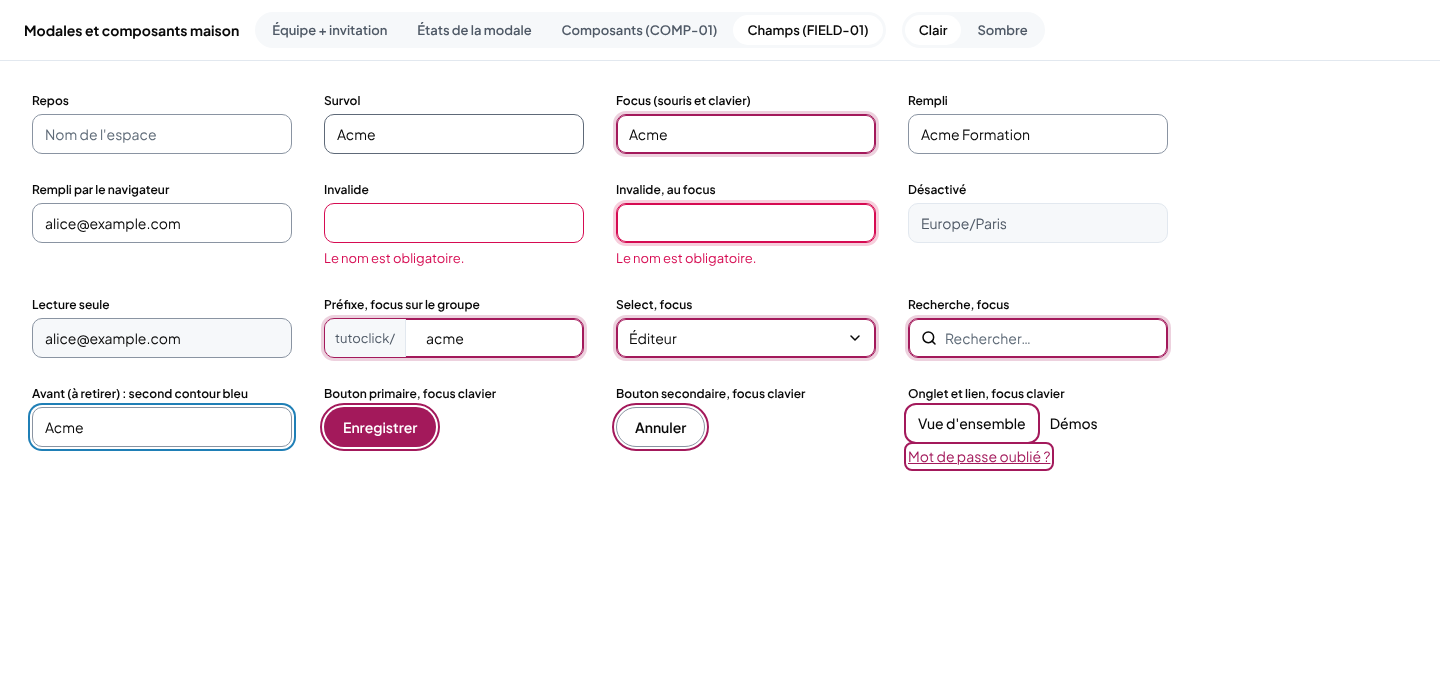
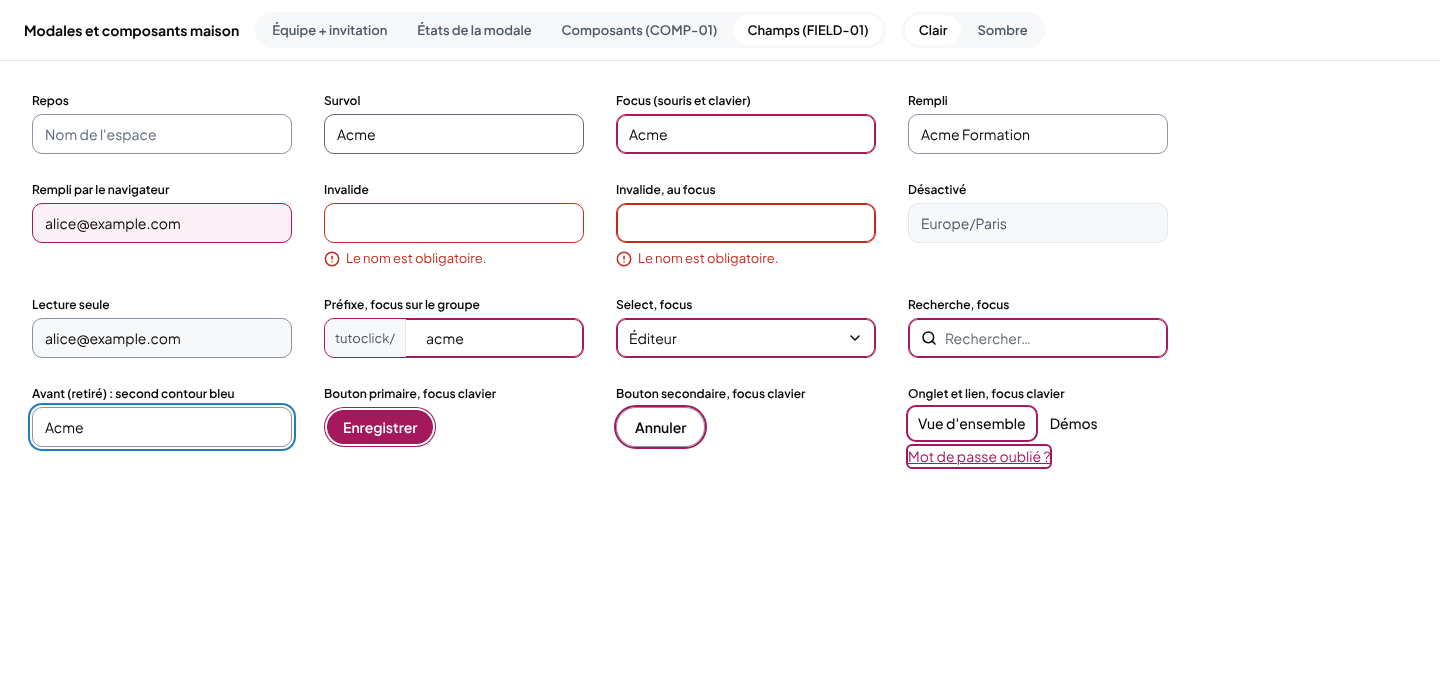
FIELD-01 révisé selon la décision du client : bordure prune de 2 px sans halo, autofill teinté prune-50, focus clavier collé (trait blanc intérieur sur le primaire), nouveau rouge d'erreur
Claude-Session: https://claude.ai/code/session_016yn81XNDaqi4emq7ho6CNv

diff --git a/docs/ux/maquettes/refonte/modales-composants.html b/docs/ux/maquettes/refonte/modales-composants.html
@@ -136,22 +136,25 @@ td.who { display: flex; align-items: center; gap: 12px; font-weight: 600; }
 .focus { outline: 2px solid var(--fd-color-focus); outline-offset: 2px; }
 
 /* ---------- FIELD-01 ---------- */
-:root { --field-hover: #5E6978; --halo: color-mix(in srgb, var(--fd-color-primary) 20%, transparent); --halo-d: color-mix(in srgb, var(--fd-color-danger) 20%, transparent); }
-[data-theme='dark'] { --field-hover: #7A8494; }
+:root { --tint: #FBF0F5; --err2: #C42B1C; --field-hover: #5E6978; --halo: color-mix(in srgb, var(--fd-color-primary) 20%, transparent); --halo-d: color-mix(in srgb, var(--fd-color-danger) 20%, transparent); }
+[data-theme='dark'] { --tint: #2A1A23; --err2: #F97066; --field-hover: #7A8494; }
 .f-grid { padding: 32px; display: grid; grid-template-columns: repeat(4, minmax(0, 260px)); gap: 28px 32px; }
 .f-grid .field > span.st { font: 600 12px var(--fd-font-sans); color: var(--fd-color-text); }
 .s-hover { border-color: var(--field-hover); }
-.s-focus { border-color: var(--fd-color-primary); box-shadow: inset 0 0 0 1px var(--fd-color-primary), 0 0 0 3px var(--halo); }
-.s-auto { background: var(--fd-color-surface); }
+.s-focus { border-color: var(--fd-color-primary); box-shadow: inset 0 0 0 1px var(--fd-color-primary); }
+.s-auto { background: var(--tint); border-color: var(--fd-color-primary); }
 .s-err { border-color: var(--fd-color-danger); }
-.s-err.s-focus { box-shadow: inset 0 0 0 1px var(--fd-color-danger), 0 0 0 3px var(--halo-d); }
+.s-err.s-focus { box-shadow: inset 0 0 0 1px var(--err2); }
+.s-err { border-color: var(--err2) !important; }
+[data-vue='champs'] .err-msg { color: var(--err2); }
 .s-dis { background: var(--fd-color-surface-sunken); border-color: var(--fd-color-border); color: var(--fd-color-text-muted); }
 .s-ro { background: var(--fd-color-surface-sunken); }
 .pre { padding: 0; overflow: hidden; } .pre span.p { padding: 0 10px; height: 100%; display: flex; align-items: center; background: var(--fd-color-surface-sunken); color: var(--fd-color-text-muted); font-size: 13px; border-right: 1px solid var(--fd-color-border); }
 .pre span.v { padding: 0 12px; }
 .old { box-shadow: 0 0 0 2px #fff, 0 0 0 4px #1f7fb6; }
 [data-theme='dark'] .old { box-shadow: 0 0 0 2px #0b0d10, 0 0 0 4px #51abdd; }
-.kf { outline: 2px solid var(--fd-color-primary); outline-offset: 2px; }
+.kf { outline: 2px solid var(--fd-color-primary); outline-offset: 0; }
+.btn-p.kf { outline: none; box-shadow: inset 0 0 0 2px var(--fd-color-surface); }
 .tabs { display: flex; gap: 4px; } .tab { padding: 6px 10px; border-radius: 8px; font-weight: 500; }
 </style>
 </head>
@@ -210,7 +213,7 @@ td.who { display: flex; align-items: center; gap: 12px; font-weight: 600; }
 <div data-vue="etats" style="display:grid;grid-template-columns:repeat(3,400px);gap:32px;padding:32px;align-items:start">
   <div class="modal">
     <div class="m-head"><span class="tile"><svg xmlns="http://www.w3.org/2000/svg" width="18" height="18" viewBox="0 0 24 24" fill="none" stroke="currentColor" stroke-width="2.25" stroke-linecap="round" stroke-linejoin="round" class="lucide lucide-folder-plus" aria-hidden="true"><path d="M12 10v6"></path><path d="M9 13h6"></path><path d="M20 20a2 2 0 0 0 2-2V8a2 2 0 0 0-2-2h-7.9a2 2 0 0 1-1.69-.9L9.6 3.9A2 2 0 0 0 7.93 3H4a2 2 0 0 0-2 2v13a2 2 0 0 0 2 2Z"></path></svg></span><h2>Nouveau dossier</h2><button class="icon-btn" aria-label="Fermer"><svg xmlns="http://www.w3.org/2000/svg" width="16" height="16" viewBox="0 0 24 24" fill="none" stroke="currentColor" stroke-width="2.25" stroke-linecap="round" stroke-linejoin="round" class="lucide lucide-x" aria-hidden="true"><path d="M18 6 6 18"></path><path d="m6 6 12 12"></path></svg></button></div>
-    <div class="m-body"><div class="field"><label for="n1">Nom du dossier</label><div class="inp err" id="n1"></div><div class="err-msg">Le nom est obligatoire.</div></div>
+    <div class="m-body"><div class="field"><label for="n1">Nom du dossier</label><div class="inp err" id="n1"></div><div class="err-msg"><svg xmlns="http://www.w3.org/2000/svg" width="16" height="16" viewBox="0 0 24 24" fill="none" stroke="currentColor" stroke-width="2.25" stroke-linecap="round" stroke-linejoin="round" class="lucide lucide-circle-alert" aria-hidden="true"><circle cx="12" cy="12" r="10"></circle><line x1="12" x2="12" y1="8" y2="12"></line><line x1="12" x2="12.01" y1="16" y2="16"></line></svg>Le nom est obligatoire.</div></div>
       <div class="field"><label>Visibilité</label><div class="inp trigger">Tout l'espace<svg xmlns="http://www.w3.org/2000/svg" width="16" height="16" viewBox="0 0 24 24" fill="none" stroke="currentColor" stroke-width="2.25" stroke-linecap="round" stroke-linejoin="round" class="lucide lucide-chevron-down" aria-hidden="true"><path d="m6 9 6 6 6-6"></path></svg></div></div></div>
     <div class="m-foot"><button class="btn btn-s">Annuler</button><button class="btn btn-p" aria-disabled="true">Créer le dossier</button></div>
   </div>
@@ -264,8 +267,8 @@ td.who { display: flex; align-items: center; gap: 12px; font-weight: 600; }
 
 <div data-vue="champs">
 <div class="f-grid">
-<div class="field"><span class="st">Repos</span><div class="inp "><span class="muted" style="color:var(--fd-color-text-subtle)">Nom de l'espace</span></div></div><div class="field"><span class="st">Survol</span><div class="inp s-hover">Acme</div></div><div class="field"><span class="st">Focus (souris et clavier)</span><div class="inp s-focus">Acme</div></div><div class="field"><span class="st">Rempli</span><div class="inp ">Acme Formation</div></div><div class="field"><span class="st">Rempli par le navigateur</span><div class="inp s-auto">alice@example.com</div></div><div class="field"><span class="st">Invalide</span><div class="inp s-err"></div><div class="err-msg">Le nom est obligatoire.</div></div><div class="field"><span class="st">Invalide, au focus</span><div class="inp s-err s-focus"></div><div class="err-msg">Le nom est obligatoire.</div></div><div class="field"><span class="st">Désactivé</span><div class="inp s-dis">Europe/Paris</div></div><div class="field"><span class="st">Lecture seule</span><div class="inp s-ro">alice@example.com</div></div><div class="field"><span class="st">Préfixe, focus sur le groupe</span><div class="inp pre s-focus"><span class="p">tutoclick/</span><span class="v">acme</span></div></div><div class="field"><span class="st">Select, focus</span><div class="inp trigger s-focus">Éditeur<svg xmlns="http://www.w3.org/2000/svg" width="16" height="16" viewBox="0 0 24 24" fill="none" stroke="currentColor" stroke-width="2.25" stroke-linecap="round" stroke-linejoin="round" class="lucide lucide-chevron-down" aria-hidden="true"><path d="m6 9 6 6 6-6"></path></svg></div></div><div class="field"><span class="st">Recherche, focus</span><div class="inp s-focus"><svg xmlns="http://www.w3.org/2000/svg" width="16" height="16" viewBox="0 0 24 24" fill="none" stroke="currentColor" stroke-width="2.25" stroke-linecap="round" stroke-linejoin="round" class="lucide lucide-search" aria-hidden="true"><path d="m21 21-4.34-4.34"></path><circle cx="11" cy="11" r="8"></circle></svg><span style="color:var(--fd-color-text-subtle)">Rechercher…</span></div></div>
-  <div class="field"><span class="st">Avant (à retirer) : second contour bleu</span><div class="inp old">Acme</div></div>
+<div class="field"><span class="st">Repos</span><div class="inp "><span class="muted" style="color:var(--fd-color-text-subtle)">Nom de l'espace</span></div></div><div class="field"><span class="st">Survol</span><div class="inp s-hover">Acme</div></div><div class="field"><span class="st">Focus (souris et clavier)</span><div class="inp s-focus">Acme</div></div><div class="field"><span class="st">Rempli</span><div class="inp ">Acme Formation</div></div><div class="field"><span class="st">Rempli par le navigateur</span><div class="inp s-auto">alice@example.com</div></div><div class="field"><span class="st">Invalide</span><div class="inp s-err"></div><div class="err-msg"><svg xmlns="http://www.w3.org/2000/svg" width="16" height="16" viewBox="0 0 24 24" fill="none" stroke="currentColor" stroke-width="2.25" stroke-linecap="round" stroke-linejoin="round" class="lucide lucide-circle-alert" aria-hidden="true"><circle cx="12" cy="12" r="10"></circle><line x1="12" x2="12" y1="8" y2="12"></line><line x1="12" x2="12.01" y1="16" y2="16"></line></svg>Le nom est obligatoire.</div></div><div class="field"><span class="st">Invalide, au focus</span><div class="inp s-err s-focus"></div><div class="err-msg"><svg xmlns="http://www.w3.org/2000/svg" width="16" height="16" viewBox="0 0 24 24" fill="none" stroke="currentColor" stroke-width="2.25" stroke-linecap="round" stroke-linejoin="round" class="lucide lucide-circle-alert" aria-hidden="true"><circle cx="12" cy="12" r="10"></circle><line x1="12" x2="12" y1="8" y2="12"></line><line x1="12" x2="12.01" y1="16" y2="16"></line></svg>Le nom est obligatoire.</div></div><div class="field"><span class="st">Désactivé</span><div class="inp s-dis">Europe/Paris</div></div><div class="field"><span class="st">Lecture seule</span><div class="inp s-ro">alice@example.com</div></div><div class="field"><span class="st">Préfixe, focus sur le groupe</span><div class="inp pre s-focus"><span class="p">tutoclick/</span><span class="v">acme</span></div></div><div class="field"><span class="st">Select, focus</span><div class="inp trigger s-focus">Éditeur<svg xmlns="http://www.w3.org/2000/svg" width="16" height="16" viewBox="0 0 24 24" fill="none" stroke="currentColor" stroke-width="2.25" stroke-linecap="round" stroke-linejoin="round" class="lucide lucide-chevron-down" aria-hidden="true"><path d="m6 9 6 6 6-6"></path></svg></div></div><div class="field"><span class="st">Recherche, focus</span><div class="inp s-focus"><svg xmlns="http://www.w3.org/2000/svg" width="16" height="16" viewBox="0 0 24 24" fill="none" stroke="currentColor" stroke-width="2.25" stroke-linecap="round" stroke-linejoin="round" class="lucide lucide-search" aria-hidden="true"><path d="m21 21-4.34-4.34"></path><circle cx="11" cy="11" r="8"></circle></svg><span style="color:var(--fd-color-text-subtle)">Rechercher…</span></div></div>
+  <div class="field"><span class="st">Avant (retiré) : second contour bleu</span><div class="inp old">Acme</div></div>
   <div class="field"><span class="st">Bouton primaire, focus clavier</span><div><button class="btn btn-p kf">Enregistrer</button></div></div>
   <div class="field"><span class="st">Bouton secondaire, focus clavier</span><div><button class="btn btn-s kf">Annuler</button></div></div>
   <div class="field"><span class="st">Onglet et lien, focus clavier</span><div class="tabs"><span class="tab kf">Vue d'ensemble</span><span class="tab">Démos</span></div><a href="#" class="kf" style="color:var(--fd-color-primary);width:max-content;border-radius:4px">Mot de passe oublié ?</a></div>

diff --git a/docs/ux/specs/comp-01-composants.md b/docs/ux/specs/comp-01-composants.md
@@ -134,76 +134,83 @@ Tous les composants vivent dans `packages/ui`. Leur popover est le même pour to
 - Contrastes : texte des options à 4,5:1, état sélectionné non porté par la seule couleur (coche, graisse).
 - Défilement horizontal (§18.7) et espacements (§18.6) sur les pages migrées.
 
-## 11. FIELD-01 : une seule grille d'états pour tous les champs (retour client du 21/11)
+## 11. FIELD-01 : une seule grille d'états pour tous les champs (décision du client, 21/11)
 
-> Retour client : au focus, nos champs prennent un **second contour bleu, extérieur**, décalé de la bordure grise (`--fd-shadow-focus`, `base.css` l. 50 et 235), d'une autre forme et d'une couleur hors marque. La cible : c'est la **bordure du champ elle-même** qui change de couleur, avec un halo léger qui épouse le même rayon.
+> **Décision du client** : **aucun double contour, nulle part**. C'est l'option B du comparatif (`maquettes/refonte/img/field-options/README.md`), **sans halo**. La première version (trait de 2 px plus un halo de 3 px) est abandonnée.
 >
 > **Portée** : input, textarea, déclencheur de Select, champ à puces, date et heure, couleur, recherche, champs à préfixe ou suffixe, dans `packages/ui`, en clair et en sombre.
 >
 > **Maquette** : vue « Champs (FIELD-01) » de `maquettes/refonte/modales-composants.html`. Captures dans `img/modales-composants/champs-{clair,sombre}.png`.
 
-### 11.1 Grille d'états
+### 11.1 Grille d'états des champs
 
-| État | Bordure (1 px) | Ombre (`box-shadow`) | Fond et texte |
+| État | Bordure | `box-shadow` | Fond et texte |
 |---|---|---|---|
-| Repos | `--fd-color-border-field` (#8A94A2 en clair, 3,07:1 ; #5E6978 en sombre, 3,16:1) | aucune | `surface`, `text` ; invite en `text-subtle` |
-| Survol | `--fd-color-border-field-hover` : **#5E6978** en clair (5,6:1), **#7A8494** en sombre (4,7:1) | aucune | inchangé |
-| **Focus** (souris **et** clavier) | `--fd-color-primary` : #A3195B en clair (7,4:1 sur blanc), #CF86A9 en sombre (6,4:1) | `inset 0 0 0 1px primary` (le trait fait 2 px sans décaler la mise en page), **puis** `0 0 0 3px` primary à **20 %** (halo) | inchangé |
-| Rempli | comme au repos | aucune | **aucune teinte** (ni bleu, ni jaune) |
-| Rempli par le navigateur | comme au repos | voir §11.2 | `surface` et `text` imposés |
-| Invalide | `--fd-color-danger` (#D60B52, 5,2:1 ; #F07CA2, 6,8:1) | au focus : `inset 0 0 0 1px danger` et halo `danger` à 20 % | message de 13 px `danger` juste sous le champ (MODAL-01), avec `aria-invalid` |
-| Désactivé | `--fd-color-border` | aucune | fond `surface-sunken`, texte `text-muted` (lisible, 4,5:1 au moins), `cursor: not-allowed` |
-| Lecture seule | `--fd-color-border-field` | focus comme ci-dessus (le champ reste focalisable et sélectionnable) | fond `surface-sunken`, texte `text` |
+| Repos | 1 px `--fd-color-border-field` (#8A94A2 en clair, 3,07:1 ; #5E6978 en sombre, 3,16:1) | aucune | `surface`, `text` ; invite en `text-subtle` |
+| Survol | 1 px `--fd-color-border-field-hover` (#5E6978 en clair, 5,6:1 ; #7A8494 en sombre, 4,7:1) | aucune | inchangé |
+| **Focus** (souris **et** clavier) | 1 px `--fd-color-primary` (#A3195B en clair, 7,4:1 ; #CF86A9 en sombre, 6,4:1) | **`inset 0 0 0 1px var(--fd-color-primary)`** : un trait de 2 px, sans décaler la mise en page | inchangé (**pas de teinte au focus**) |
+| Rempli | comme au repos | aucune | aucune teinte |
+| **Rempli par le navigateur** | 1 px `primary` | `inset 0 0 0 1000px var(--fd-color-tint)` (fond, voir §11.2) | fond **`--fd-color-tint`** : #FBF0F5 (prune-50) en clair, #2A1A23 en sombre ; texte `text` (18,0:1 et 15,1:1) |
+| Invalide | 1 px **`--fd-color-danger`** (nouveau rouge : #C42B1C en clair, 5,7:1 ; #F97066 en sombre, 6,3:1) | aucune | fond `surface`. Message de 13 px `danger` **avec l'icône `CircleAlert`** de 16 px, 6 px sous le champ. `aria-invalid="true"` et `aria-describedby` |
+| Invalide, au focus | 1 px `danger` | `inset 0 0 0 1px var(--fd-color-danger)` | comme ci-dessus |
+| Désactivé | 1 px `--fd-color-border` | aucune | fond `surface-sunken`, texte `text-muted` (lisible, 4,5:1 au moins) |
+| Lecture seule | 1 px `border-field` | focus comme ci-dessus | fond `surface-sunken`, texte `text` |
 
-- **Rayon** : celui du champ (10 px). Le halo le suit, **sans `outline` ni `outline-offset`**, et **aucun second contour**.
-- **Indicateur de focus** (WCAG 2.4.7, 1.4.11 et 2.4.11) :
-  - c'est d'abord le **trait de 2 px en prune**, qui atteint 3:1 au moins sur le fond (7,4:1 et 6,4:1) ;
-  - le halo n'est qu'un renfort, il n'est **pas** le seul indicateur ;
-  - la différence entre repos et focus passe aussi par l'épaisseur (1 px puis 2 px), pas seulement par la couleur.
-- **Transition** : `border-color` et `box-shadow` en `--fd-motion-duration-fast` (120 ms). Instantané en mouvement réduit. C'est une exception admise à MOTION-01 : `box-shadow` sur un champ ne déclenche pas de remise en page.
+- **Interdits sur les champs** :
+  - tout `outline`, à tous les états (`outline: none`) ;
+  - tout `box-shadow` **extérieur** (halo, anneau, double contour, décalage) ;
+  - tout fond rose ou rouge pâle (en erreur, le fond reste `surface`).
+- **Indicateur de focus** (WCAG 2.4.7 et 1.4.11) : le trait prune de 2 px, à 7,4:1 contre le fond en clair et 6,4:1 en sombre. L'épaisseur passe de 1 à 2 px et la couleur change, donc la couleur n'est pas le seul indice.
+- **Transition** : `border-color` et `box-shadow` en `--fd-motion-duration-fast` (120 ms). Instantané en mouvement réduit.
 
 ### 11.2 Remplissage automatique du navigateur
 
-On neutralise le jaune de Chrome et le bleu de Safari :
+On ne neutralise **pas** le remplissage automatique vers `surface` : on le teinte aux couleurs de la marque.
 
 ```css
 .fd-field input:-webkit-autofill,
-.fd-field input:-webkit-autofill:hover {
+.fd-field input:-webkit-autofill:hover,
+.fd-field input:-webkit-autofill:focus {
   -webkit-text-fill-color: var(--fd-color-text);
   caret-color: var(--fd-color-text);
-  box-shadow: inset 0 0 0 1000px var(--fd-color-surface);
-  transition: background-color 600000s 0s; /* le fond du navigateur ne s'affiche jamais */
+  border-color: var(--fd-color-primary);
+  box-shadow: inset 0 0 0 1000px var(--fd-color-tint);
+  transition: background-color 600000s 0s; /* le fond jaune ou bleu du navigateur ne s'affiche jamais */
 }
 .fd-field input:-webkit-autofill:focus {
-  box-shadow: inset 0 0 0 1px var(--fd-color-primary), inset 0 0 0 1000px var(--fd-color-surface),
-    0 0 0 3px color-mix(in srgb, var(--fd-color-primary) 20%, transparent);
+  box-shadow: inset 0 0 0 1px var(--fd-color-primary), inset 0 0 0 1000px var(--fd-color-tint);
 }
 ```
 
-L'ordre compte : le trait de focus est listé **avant** l'aplat de 1 000 px, pour rester visible.
+Dans un groupe (§11.3), c'est le groupe qui prend le fond teinté et la bordure prune, avec `:has(input:-webkit-autofill)`.
 
 ### 11.3 Champs composés (préfixe, suffixe, icône, puces, bouton intégré)
 
-- **Le groupe porte la bordure et le focus**, avec `:focus-within`. L'`<input>` intérieur n'a ni bordure ni ombre (`border: 0; box-shadow: none; outline: none`).
-- Préfixe ou suffixe (« tutoclick/ », « % »), icône de recherche, puces, bouton « + Variable » : ils sont tous dans le groupe, et c'est le groupe qui s'éclaire en entier.
-- Un bouton intégré garde son propre focus (§11.4) quand on l'atteint par Tab.
+- **Le groupe porte la bordure et le focus**, avec `:focus-within`. L'`<input>` intérieur n'a ni bordure, ni ombre, ni outline.
+- Un bouton intégré (« + Variable », effacer) garde son propre focus clavier (§11.4).
 
-### 11.4 Focus des liens, boutons, onglets et éléments de navigation
+### 11.4 Boutons, liens, onglets et éléments de navigation : un seul trait de 2 px, collé
 
-- **Même langage partout**, mais avec un écart, car ces éléments n'ont pas de bordure de champ :
-  - `outline: 2px solid var(--fd-color-focus)` et `outline-offset: 2px`. Le contour suit le rayon de l'élément (Chrome, Firefox, Safari 16.4 et suivants) ;
-  - `--fd-color-focus` passe du bleu (#1F7FB6 et #51ABDD) à la **prune** : #A3195B en clair, #CF86A9 en sombre ;
-  - le bouton primaire prune garde un contour net : le contour, séparé du bouton par 2 px du fond, fait 7,4:1 sur blanc.
-- `--fd-shadow-focus` (double anneau bleu) est **supprimé**. Sa dernière utilisation est retirée de `base.css` (l. 50 et 235) et des CSS de page.
-- **Au clavier seulement** (`:focus-visible`) pour les boutons, liens et onglets. **Au clavier et à la souris** (`:focus`) pour les champs, puisqu'on y saisit du texte.
-- **Éléments dans une liste à fond** (navigation NAV-02, options de Select) : `outline-offset: -2px` (contour intérieur), pour ne pas déborder sur l'élément voisin.
+- **Au clavier seulement** (`:focus-visible`). Au clic souris, rien n'apparaît.
+- **Bouton secondaire, ghost, lien, onglet, élément de navigation, option de liste** :
+  - `outline: 2px solid var(--fd-color-focus)` et **`outline-offset: 0`** : un seul trait, collé, qui suit le rayon ;
+  - prune sur blanc : 7,4:1 ;
+  - pour un lien en texte, `border-radius: 4px` pendant le focus.
+- **Bouton primaire (fond prune)** :
+  - `outline: none` et **`box-shadow: inset 0 0 0 2px var(--fd-color-surface)`** : un trait blanc intérieur de 2 px (blanc sur prune : 7,4:1 ; en sombre, `surface` #15191F sur #CF86A9 : 6,4:1) ;
+  - **rien à l'extérieur** du bouton.
+- **Bouton destructif** (fond `danger`) : même règle que le primaire, avec un trait intérieur `surface`.
+- **Interdits** : `outline-offset` positif, double anneau, halo.
 
 ### 11.5 Jetons
 
-- **Nouveau** : `--fd-color-border-field-hover` (#5E6978 en clair, #7A8494 en sombre).
-- **Nouveau** : `--fd-focus-halo` = `color-mix(in srgb, var(--fd-color-primary) 20%, transparent)`, et `--fd-focus-halo-danger`, sur le même principe.
-- **Modifié** : `--fd-color-focus` passe à la prune (#A3195B en clair, #CF86A9 en sombre).
-- **Retiré** : `--fd-shadow-focus` et `--fd-shadow-focus-danger`.
+- **Nouveaux** :
+  - `--fd-color-border-field-hover` : #5E6978 en clair, #7A8494 en sombre ;
+  - `--fd-color-tint` : #FBF0F5 en clair, #2A1A23 en sombre.
+- **Modifiés** :
+  - `--fd-color-focus` passe du bleu à la prune : #A3195B en clair, #CF86A9 en sombre ;
+  - **`--fd-color-danger`** passe à **#C42B1C** en clair et **#F97066** en sombre, **dans toute l'app**, boutons destructifs compris (texte blanc sur #C42B1C : 5,7:1). On met aussi à jour les dérivés (`danger-soft`, bordures d'alerte, `--fd-shadow-focus-danger` qui est supprimé).
+- **Retirés** : `--fd-shadow-focus` et `--fd-shadow-focus-danger`, avec leurs utilisations dans `base.css` (l. 50 et 235) et dans les CSS de page.
 
 ### 11.6 e2e `champs-focus.e2e.cjs`
 
@@ -211,14 +218,21 @@ Pour chaque champ visible de `APP_PAGES` (input, textarea, combobox, champ à pu
 
 1. **Focus clavier, puis souris** :
    - l'élément qui porte la bordure (le champ, ou le groupe en `:focus-within`) a une `border-color` égale à `--fd-color-primary` ;
-   - son `outline-style` vaut `none` (ou `outline-width` vaut 0) ;
-   - son `box-shadow` ne contient **qu'un seul** anneau extérieur, d'étalement 3 px, avec une couleur prune à 20 %, plus l'anneau `inset` de 1 px ;
-   - aucun ancêtre direct (parent ou grand-parent) ne porte d'`outline` ni de `box-shadow` de focus ;
-   - l'`<input>` intérieur d'un groupe n'a ni bordure ni ombre.
+   - son `box-shadow` contient **uniquement** l'anneau `inset` de 1 px prune, et **aucune ombre extérieure** ;
+   - son `outline-style` vaut `none` ;
+   - aucun ancêtre jusqu'au formulaire ne porte d'`outline` ni de `box-shadow` de focus ;
+   - l'`<input>` intérieur d'un groupe n'a ni bordure, ni ombre, ni outline ;
+   - le fond ne change pas au focus.
 2. **Repos** : bordure `border-field`, sans ombre. **Survol** : bordure `border-field-hover`.
-3. **Invalide** : `aria-invalid="true"` avec une bordure `danger`, et le message relié par `aria-describedby`.
+3. **Invalide** :
+   - `aria-invalid="true"` avec une bordure `danger` (#C42B1C ou #F97066) ;
+   - message relié par `aria-describedby`, qui contient un `svg.lucide-circle-alert` ;
+   - fond égal à `surface`.
 4. **Remplissage automatique** :
-   - la feuille de styles contient une règle `:-webkit-autofill` avec `-webkit-text-fill-color` et un `box-shadow` inset de la couleur `surface` (contrôle statique) ;
-   - un formulaire de connexion est rempli par l'API d'autofill de Chromium dans le test de connexion, quand elle est disponible, puis la couleur de fond calculée est comparée à `surface`.
-5. **Boutons, liens et onglets** au clavier : `outline-color` égale à `--fd-color-focus` (prune), `outline-offset` de 2 px (ou -2 px dans une liste), et plus aucun `box-shadow` bleu.
-6. Grep statique : plus aucune occurrence de `--fd-shadow-focus` ni de `#1f7fb6` / `#51abdd` dans `packages/ui` et `apps/*/src`.
+   - la feuille de styles contient la règle `:-webkit-autofill` avec un `box-shadow` inset de la couleur `--fd-color-tint`, et une bordure `primary` (contrôle statique) ;
+   - sur la connexion, un champ rempli par l'autofill de Chromium (quand l'API est disponible) a un fond calculé égal à `tint`.
+5. **Boutons, liens et onglets** au clavier (`Tab`) :
+   - un seul indicateur : `outline` de 2 px prune avec `outline-offset` de 0, **ou** (bouton primaire ou destructif) `box-shadow: inset 0 0 0 2px` en `surface`, sans `outline` ;
+   - aucune ombre extérieure ;
+   - au clic souris, aucun indicateur.
+6. **Grep statique** : plus aucune occurrence de `--fd-shadow-focus`, `#1f7fb6`, `#51abdd`, ni de l'ancien danger `#d60b52` ou `#f07ca2`, dans `packages/ui` et `apps/*/src`.
